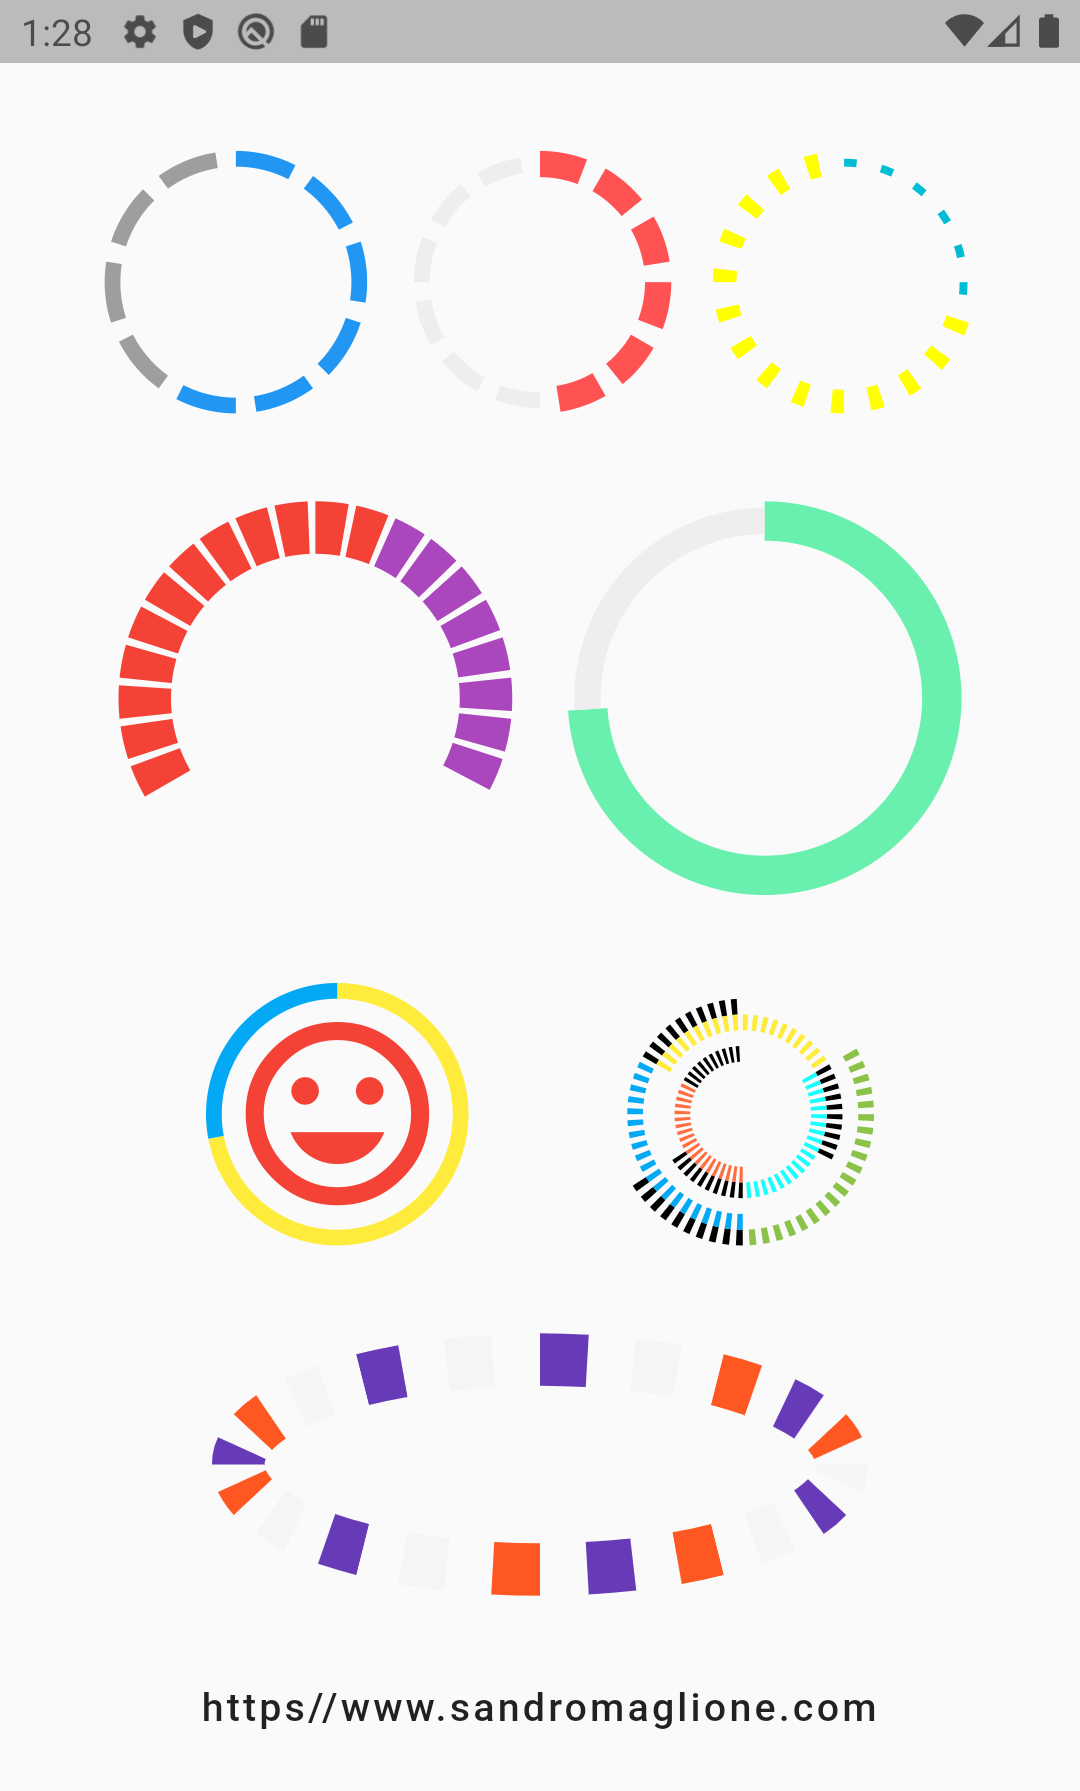
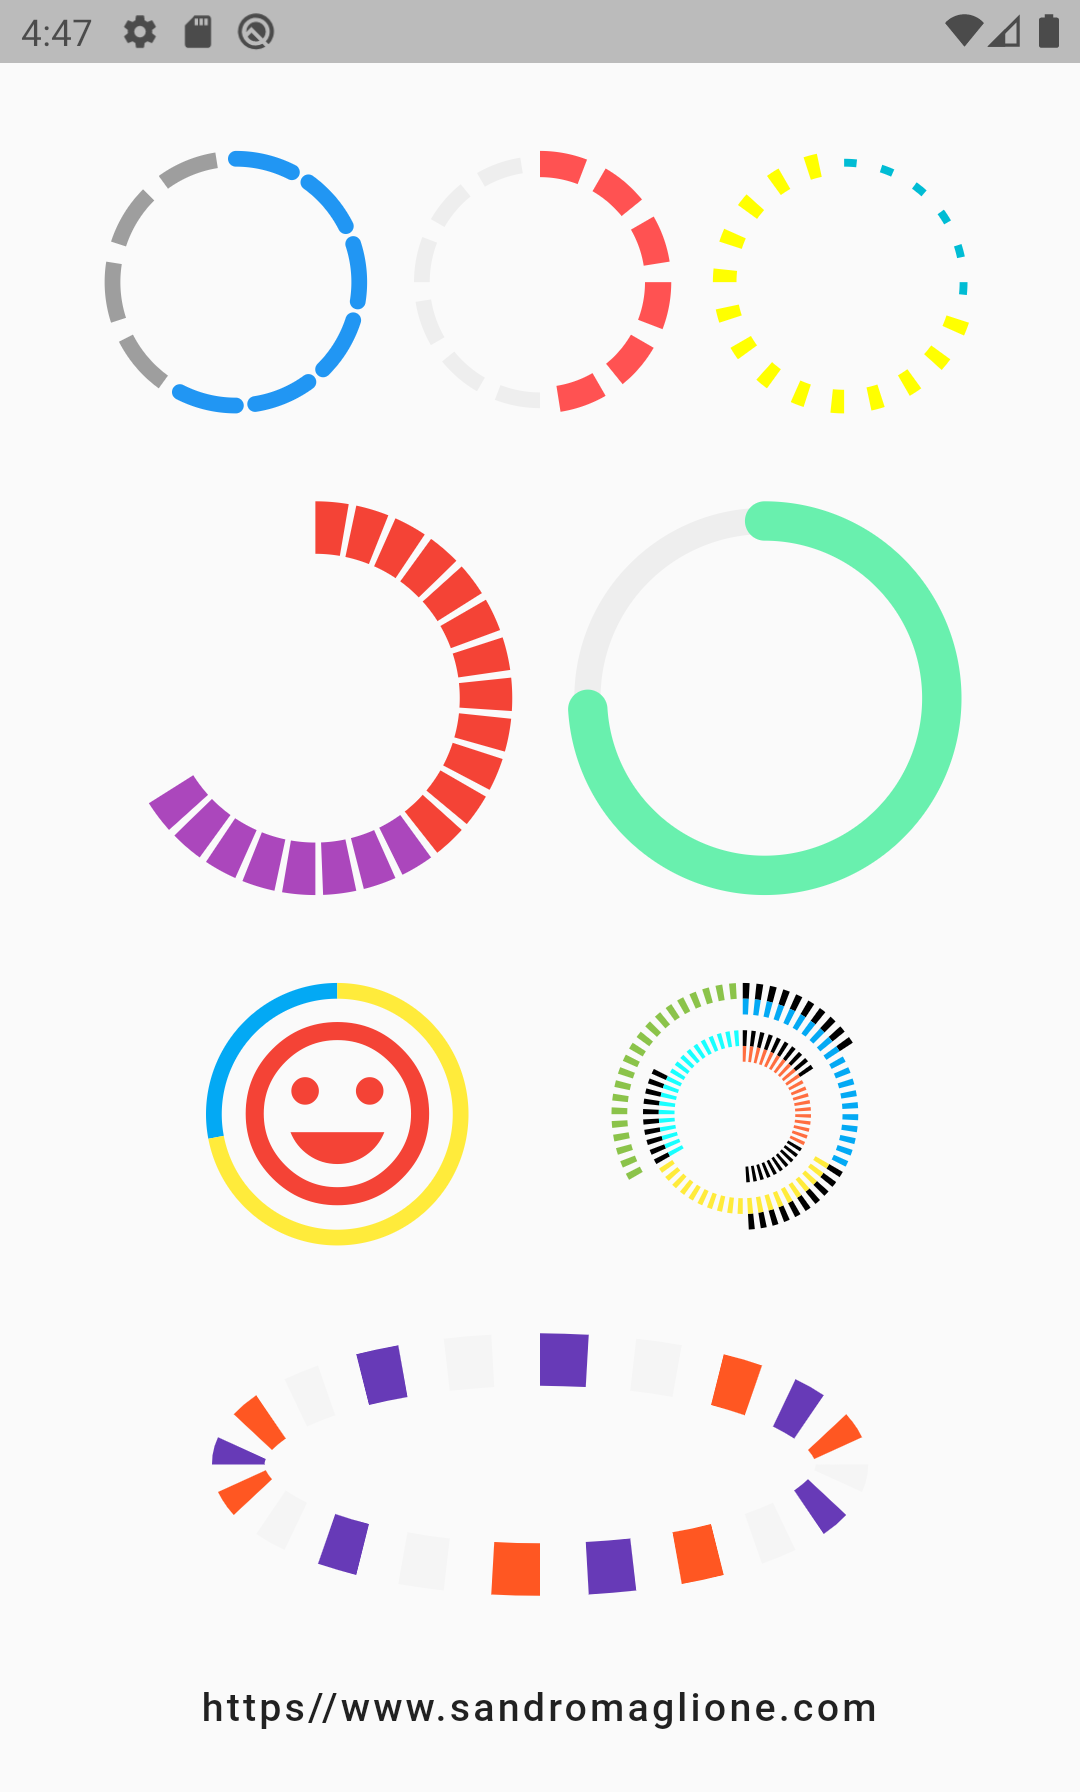
Updated docs and screenshots

diff --git a/example/circular_bar1.dart b/example/circular_bar1.dart
@@ -28,6 +28,7 @@ class CircularBar1 extends StatelessWidget {
                           totalSteps: 10,
                           currentStep: 6,
                           width: 100,
+                          roundedCap: (_, isSelected) => isSelected,
                         ),
                         CircularStepProgressIndicator(
                           totalSteps: 12,
@@ -74,6 +75,7 @@ class CircularBar1 extends StatelessWidget {
                           width: 150,
                           height: 150,
                           selectedStepSize: 15,
+                          roundedCap: (_, __) => true,
                         ),
                       ],
                     ),

diff --git a/README.md b/README.md
@@ -191,6 +191,7 @@ Row(
             totalSteps: 10,
             currentStep: 6,
             width: 100,
+            roundedCap: (_, isSelected) => isSelected,
         ),
         CircularStepProgressIndicator(
             totalSteps: 12,
@@ -243,6 +244,7 @@ Row(
         width: 150,
         height: 150,
         selectedStepSize: 15,
+        roundedCap: (_, __) => true,
     ),
     ],
 ),
@@ -327,7 +329,7 @@ CircularStepProgressIndicator(
 | width   | `double` | Width of the indicator's container. | - |
 | padding         	| `double` | Spacing between each step. | `math.pi / 20` |
 | startingAngle    | `double` | Angle in which is placed the starting point of the indicator.| 0 |
-| roundedCap`(int)`     | `bool` | Adds rounded edges at the beginning and at the end of the selected indicator given the index of each step. | `(_) => false` |
+| roundedCap`(int, bool)`     | `bool` | Adds rounded edges at the beginning and at the end of the circular indicator given the index of each step and a `bool` telling if the step is selected. | `(_, __) => false` |
 | arcSize      | `double` | Angle in radiants which represents the size of the arc used to display the indicator. | `math.pi * 2` |
 | fallbackHeight         	| `double` | Height of the indicator's container in case the parent height has no size limit i.e. `double.infinity`. | 100.0 |
 | fallbackWidth         	| `double` | Width of the indicator's container in case the parent width has no size limit i.e. `double.infinity`. | 100.0 |
